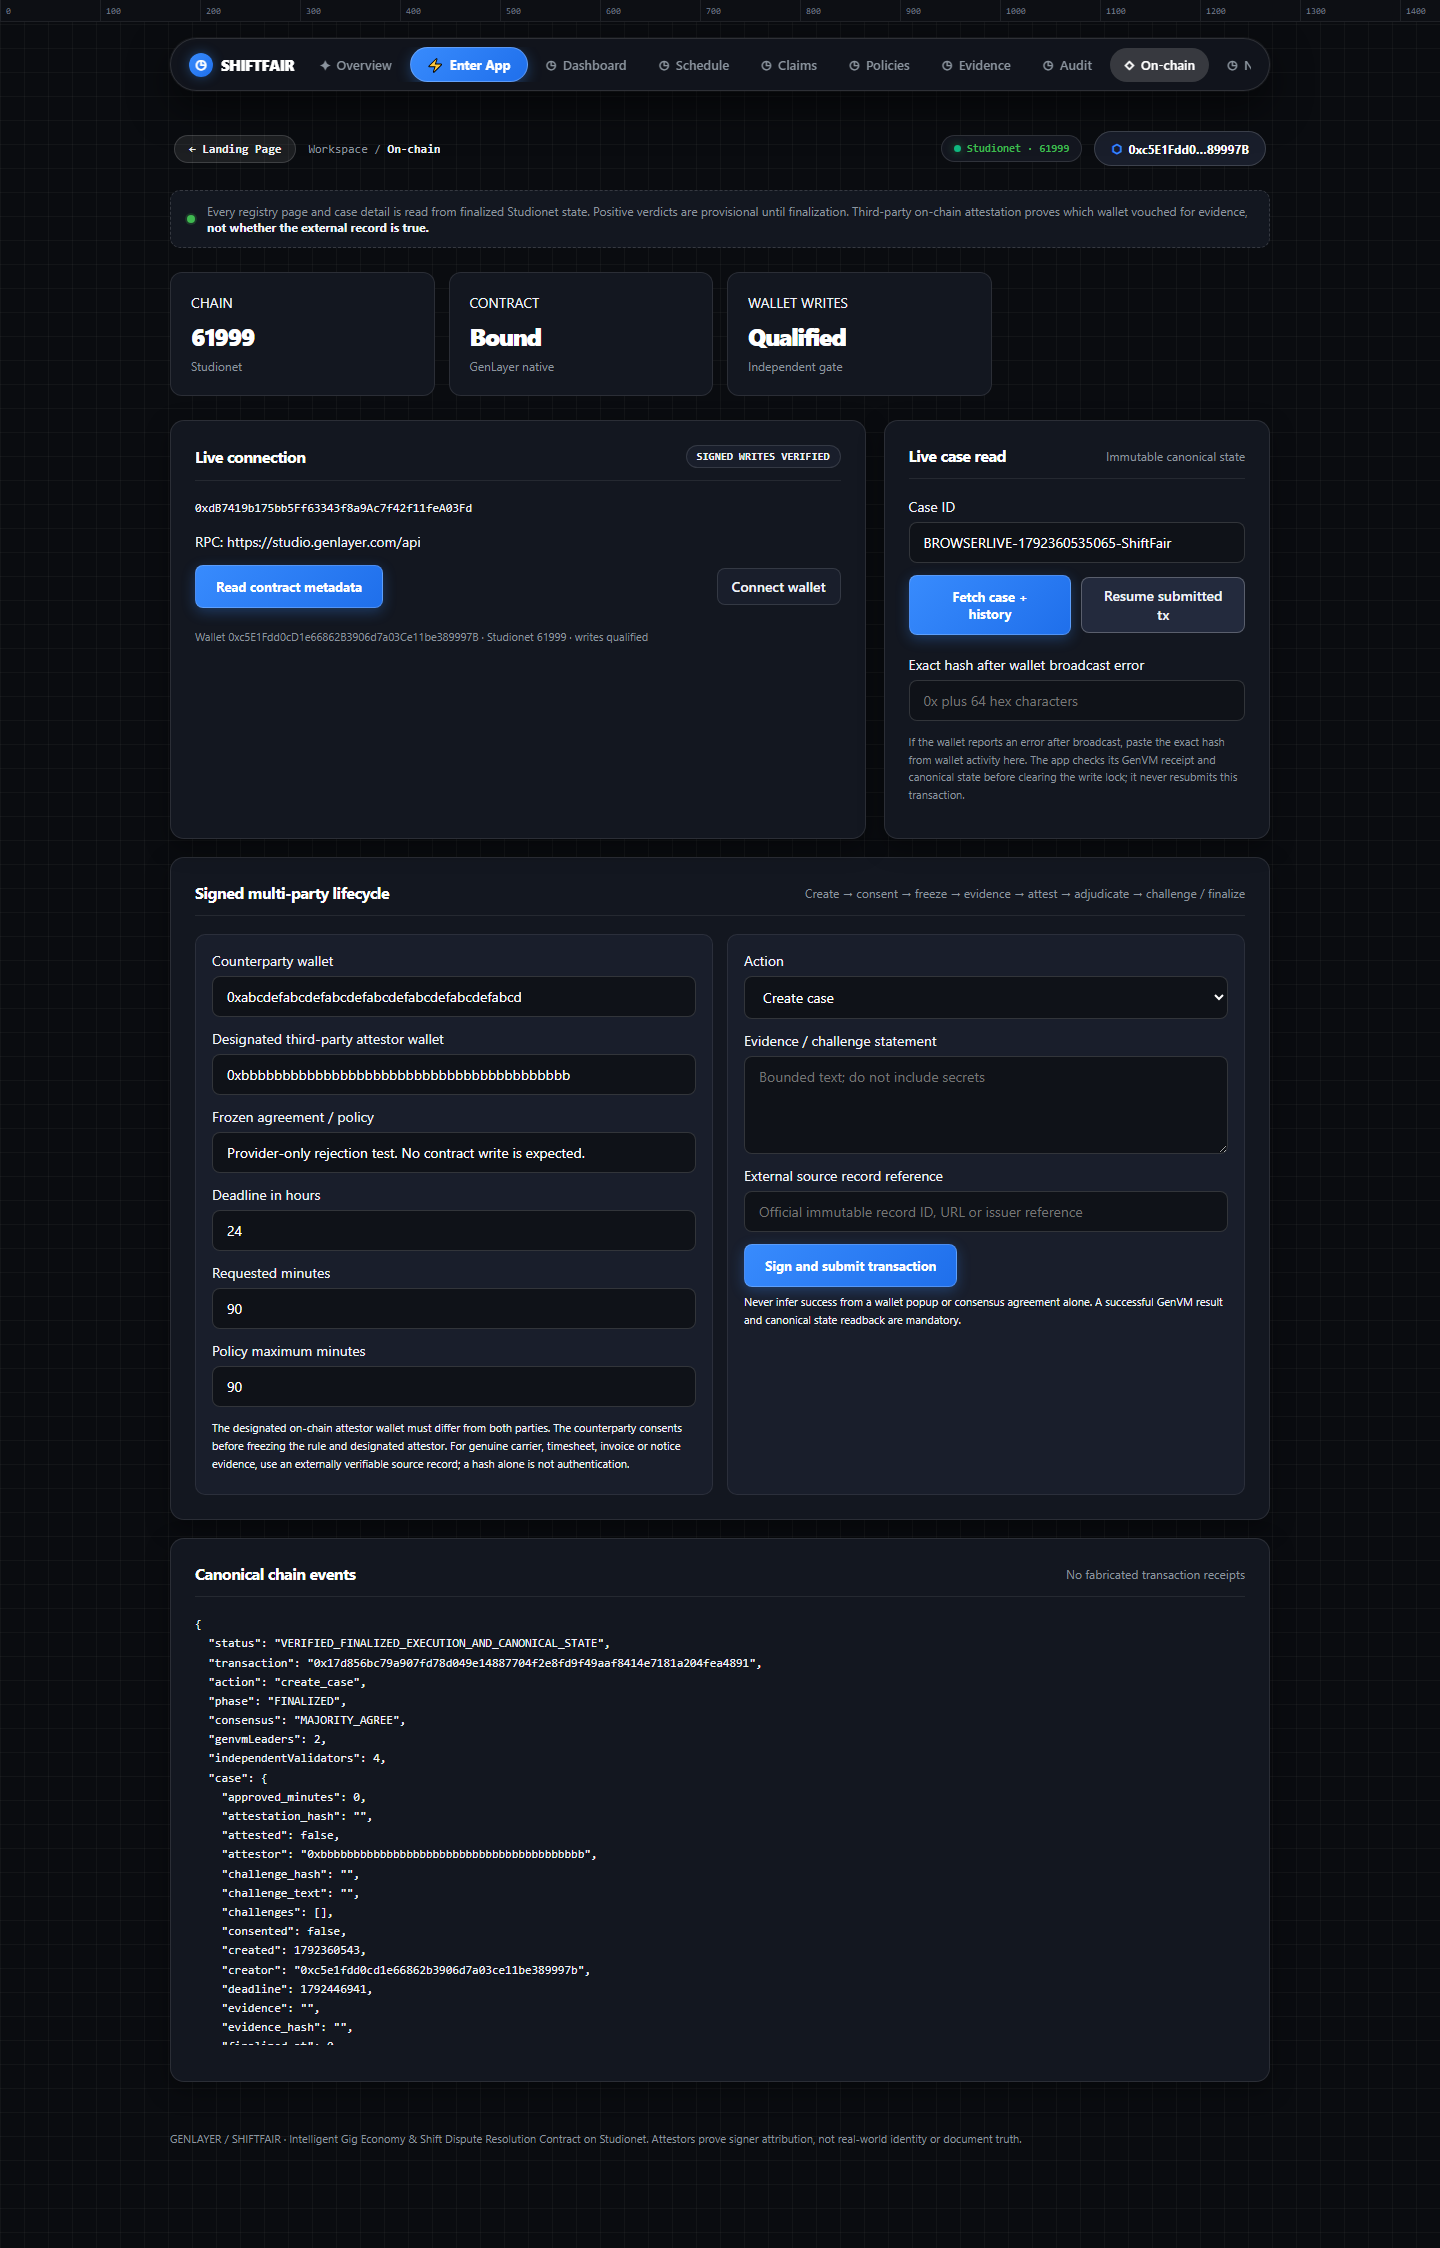
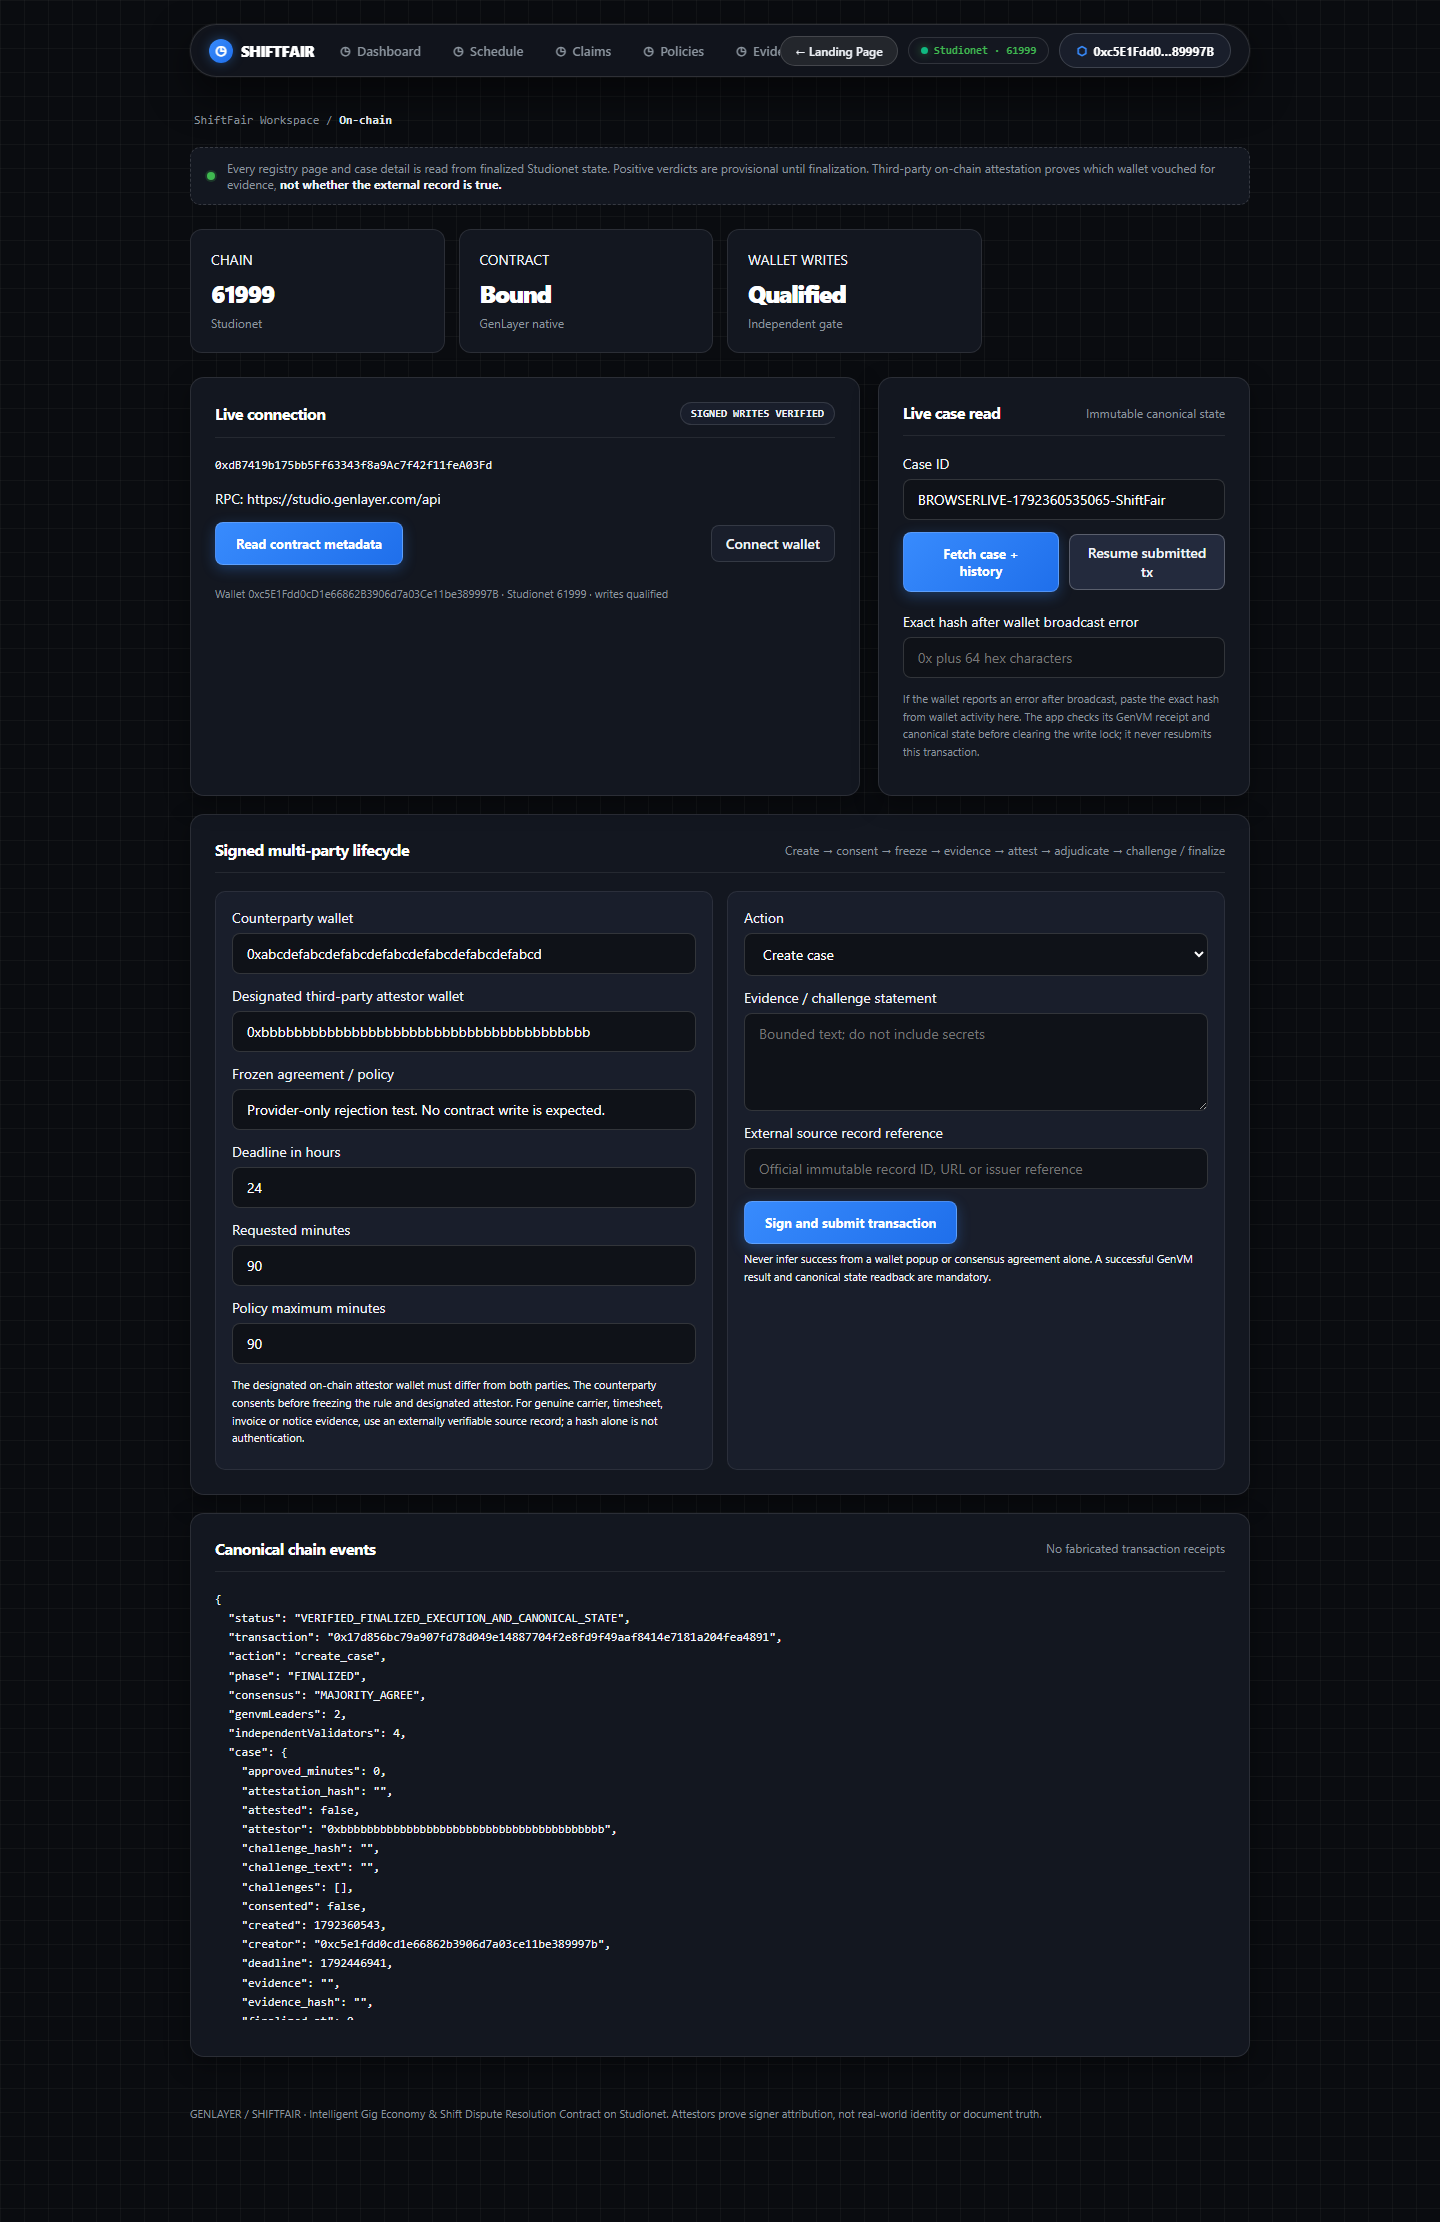
fix(css): wrap workspace-header-actions on mobile to ensure zero horizontal overflow at 390px

diff --git a/web/styles.css b/web/styles.css
@@ -989,14 +989,34 @@ a {
   .layout {
     padding: 10px 14px 80px;
     width: 100%;
-    max-width: 100vw;
+    max-width: 100%;
+    box-sizing: border-box;
+    overflow-x: hidden;
   }
   .sidebar {
     border-radius: 14px;
     padding: 8px 12px;
     flex-wrap: wrap;
     gap: 8px;
-    max-width: 100vw;
+    width: 100%;
+    max-width: 100%;
+    box-sizing: border-box;
+  }
+  #workspace-header-actions,
+  .workspace-header-actions {
+    display: flex !important;
+    flex-wrap: wrap !important;
+    gap: 6px;
+    width: 100% !important;
+    max-width: 100% !important;
+    box-sizing: border-box;
+  }
+  .workspace-header-actions .back-to-landing-btn,
+  .workspace-header-actions .network-badge,
+  .workspace-header-actions .wallet-connect-btn {
+    font-size: 11px;
+    padding: 6px 10px;
+    flex: 0 1 auto;
   }
   .sidebar nav {
     width: 100%;
